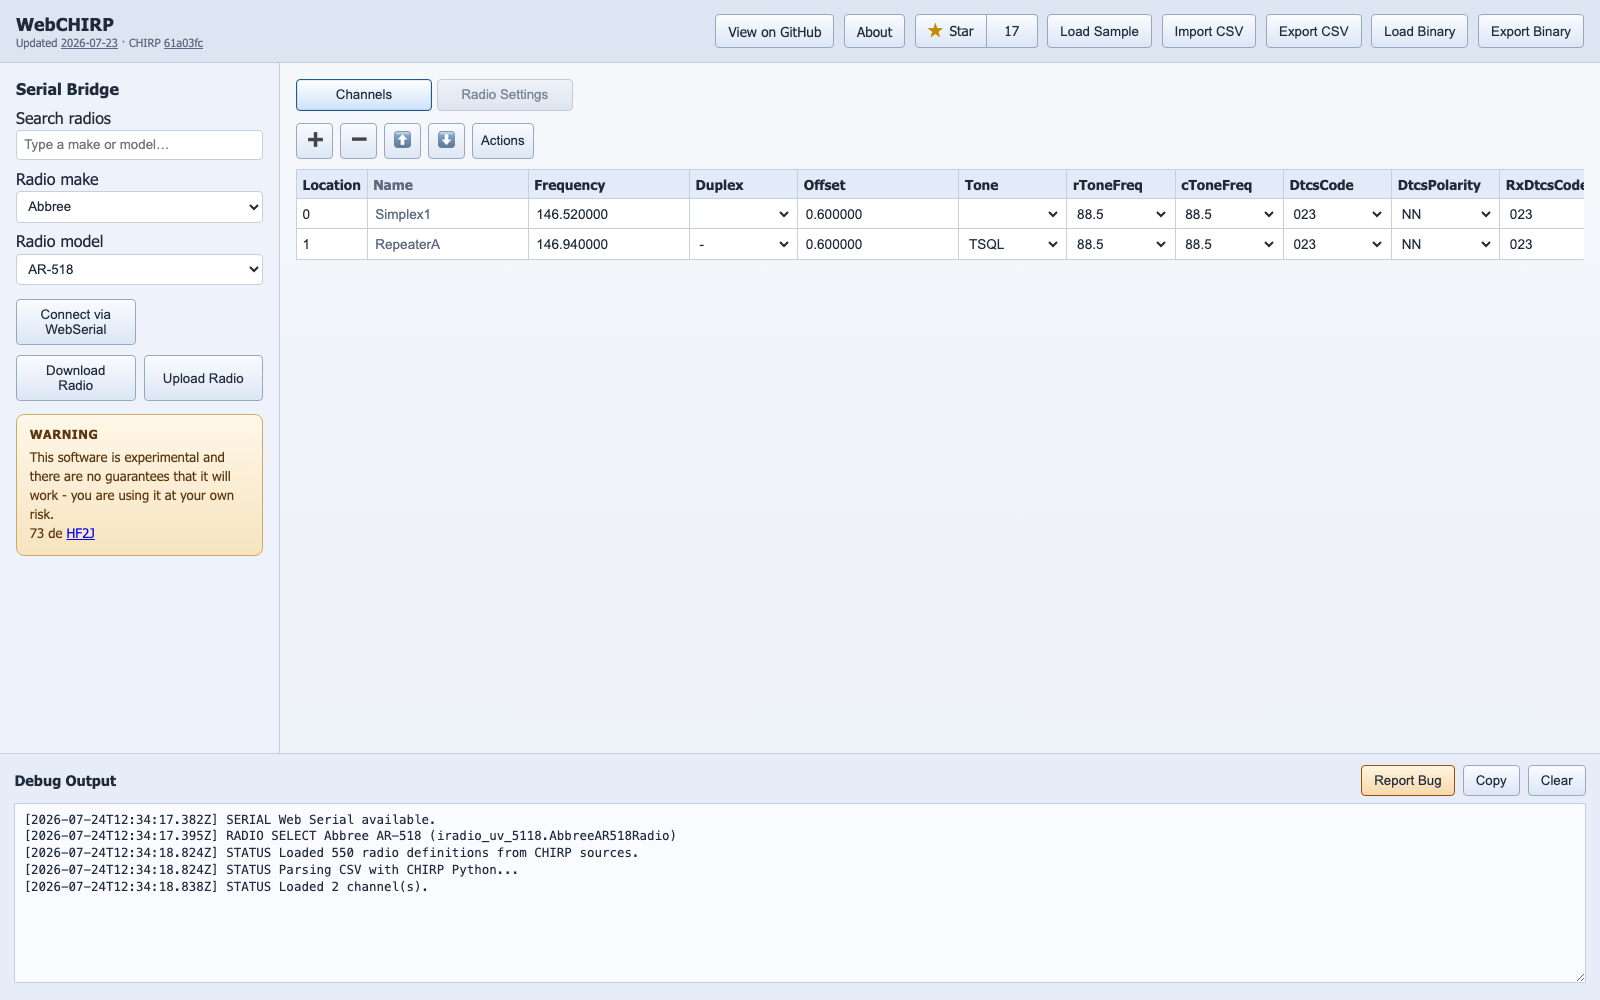
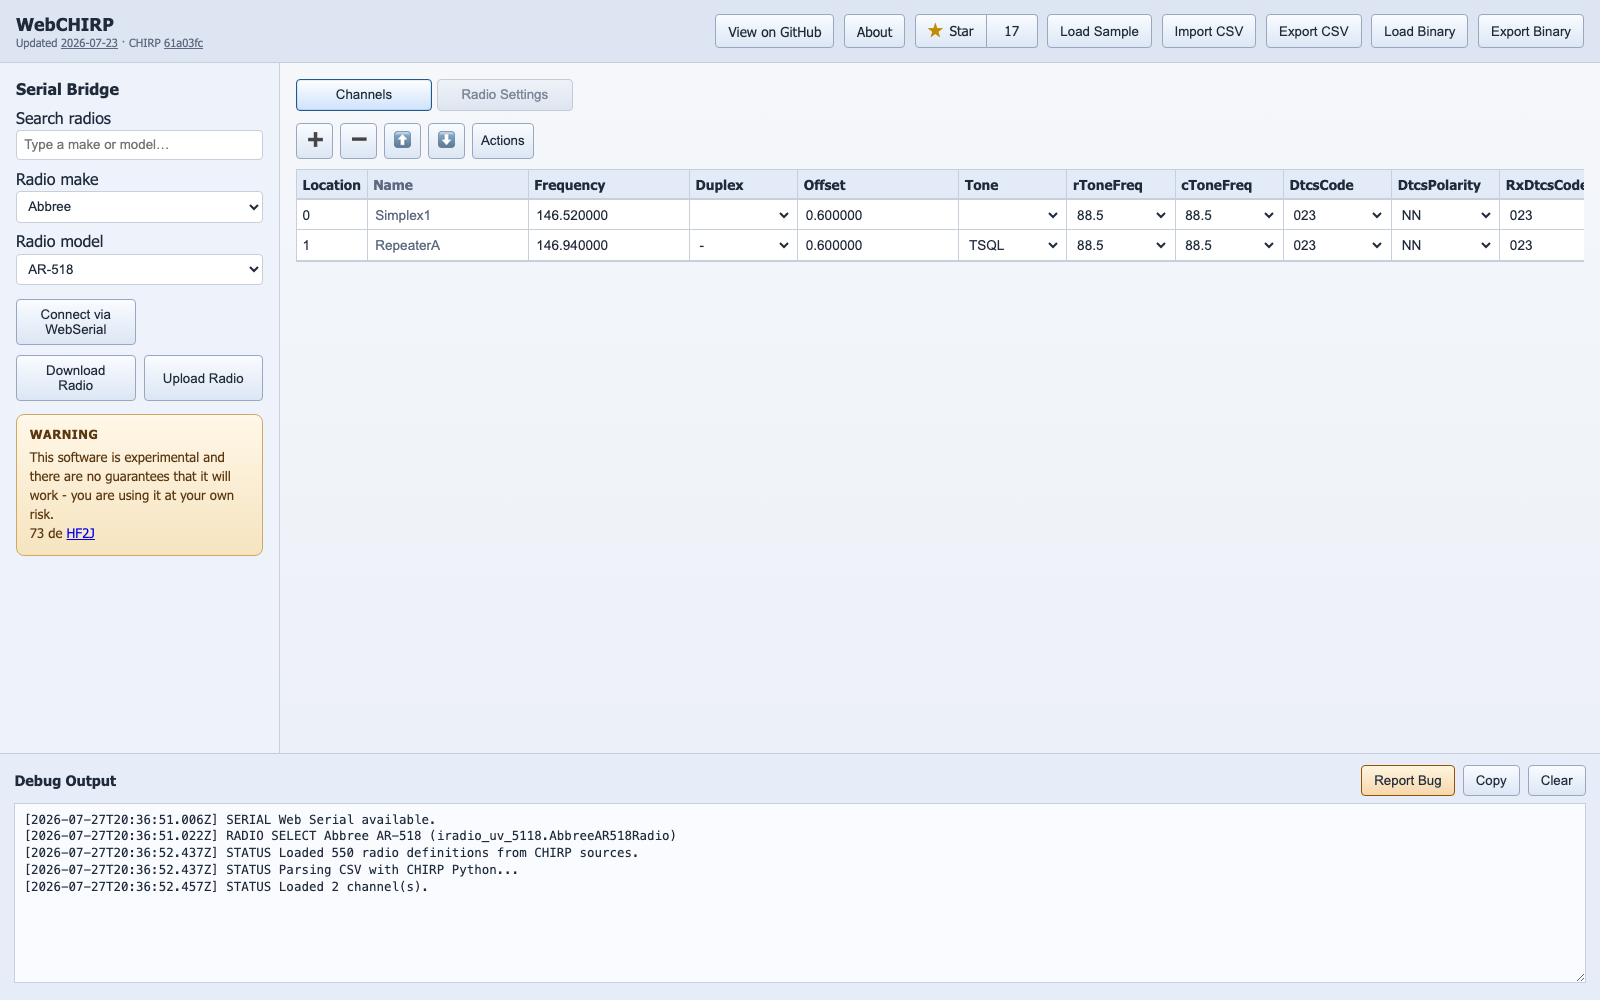
Update RELEASE_NOTES.md for 2026-07-27 and regenerate screenshots
Covers the five PRs merged since the 2026-07-24 entry: drag-and-drop file
loading (#19), channel-grid virtualization (#18), the gettext-builtins fix
for UV-K5 settings (#21), the capped issue-report URL (#22), and the ui.js
module decomposition (#16).

Release-note entries are now one line each, per user preference; AGENTS.md
records the rule so future updates keep the format.

diff --git a/RELEASE_NOTES.md b/RELEASE_NOTES.md
@@ -1,5 +1,12 @@
 # Release Notes
 
+## 2026-07-27
+- Dragging a CHIRP CSV or binary `.img` file anywhere onto the page now loads it, with the same replace-or-merge prompt as the Import CSV picker (#19).
+- Virtualized the channel grid: insert/remove/move on a 500-channel codeplug now takes 2–9 ms instead of 2.0–3.7 s (#18).
+- Fixed radio settings failing with `NameError` on drivers that call CHIRP's translation builtins, e.g. the Quansheng UV-K5 (#21).
+- Capped the pre-filled "Report Bug" GitHub URL at the last 40 debug lines so GitHub no longer answers with HTTP 414 (#22).
+- Split the 3,200-line `web/js/ui.js` into one module per UI area under `web/js/ui/`; no user-visible change (#16).
+
 ## 2026-07-24
 - CSV import no longer silently destroys existing channels (#12, contributed by lanrat): importing a CSV while the editor holds real channels (a usable frequency or name — blank inserted rows don't count) now prompts with how many channels would be lost and how many the file contains, offering Replace (previous behavior), Merge (append the imported channels and renumber Locations), or Cancel. Escape or clicking outside cancels. Imports into an empty editor and the sample loader are unchanged. Internally `loadCsvText` split into a side-effect-free `parseCsvViaRuntime` plus `applyParsedCsv(mode)` so the promise-based prompt can sit between parsing and applying.
 - The online repeater-query API base is now configurable per deployment (#14, contributed by lanrat). The przemienniki.net / repeaterbook.com actions fetch through a CORS proxy that was hardcoded to `api.codeplug.org`, whose allowlist only permits the `codeplug.org` origin — so forks hosted elsewhere hit 403 "Failed to fetch". The base now comes from a `<meta name="webchirp-repeater-api-base">` tag (defaulting to `api.codeplug.org`, so codeplug.org is unaffected); deployments with their own proxy point the tag at it, and setting `content=""` blanks the base and hides the two online-query menu items instead of offering actions that can only fail. Repeater-query tests are wired into `npm run test:channels`.

diff --git a/AGENTS.md b/AGENTS.md
@@ -54,7 +54,7 @@ This repository hosts a browser-based CHIRP interface (`web/`) that executes CHI
 - Commit after every change.
 - Keep commits small and scoped to one functional fix/refactor when practical.
 - Include clear commit messages that describe user-visible behavior or architectural impact.
-- Never modify RELEASE_NOTES.md when on a branch. When on master, update RELEASE_NOTES.md based on PRs which were merged in with current date. At the same time run `npm run screenshots` to regenerate images/screenshot.png, images/screenshot-for-opengraph.png, and web/images/social-preview.png from the current version of the app.
+- Never modify RELEASE_NOTES.md when on a branch. When on master, update RELEASE_NOTES.md based on PRs which were merged in with current date. Each entry is a single line: the user-visible change plus the PR number, no multi-sentence detail. At the same time run `npm run screenshots` to regenerate images/screenshot.png, images/screenshot-for-opengraph.png, and web/images/social-preview.png from the current version of the app.
 
 # PR Behaviour
 - When submitting a PR, in the PR description include any new dependencies which were added.
